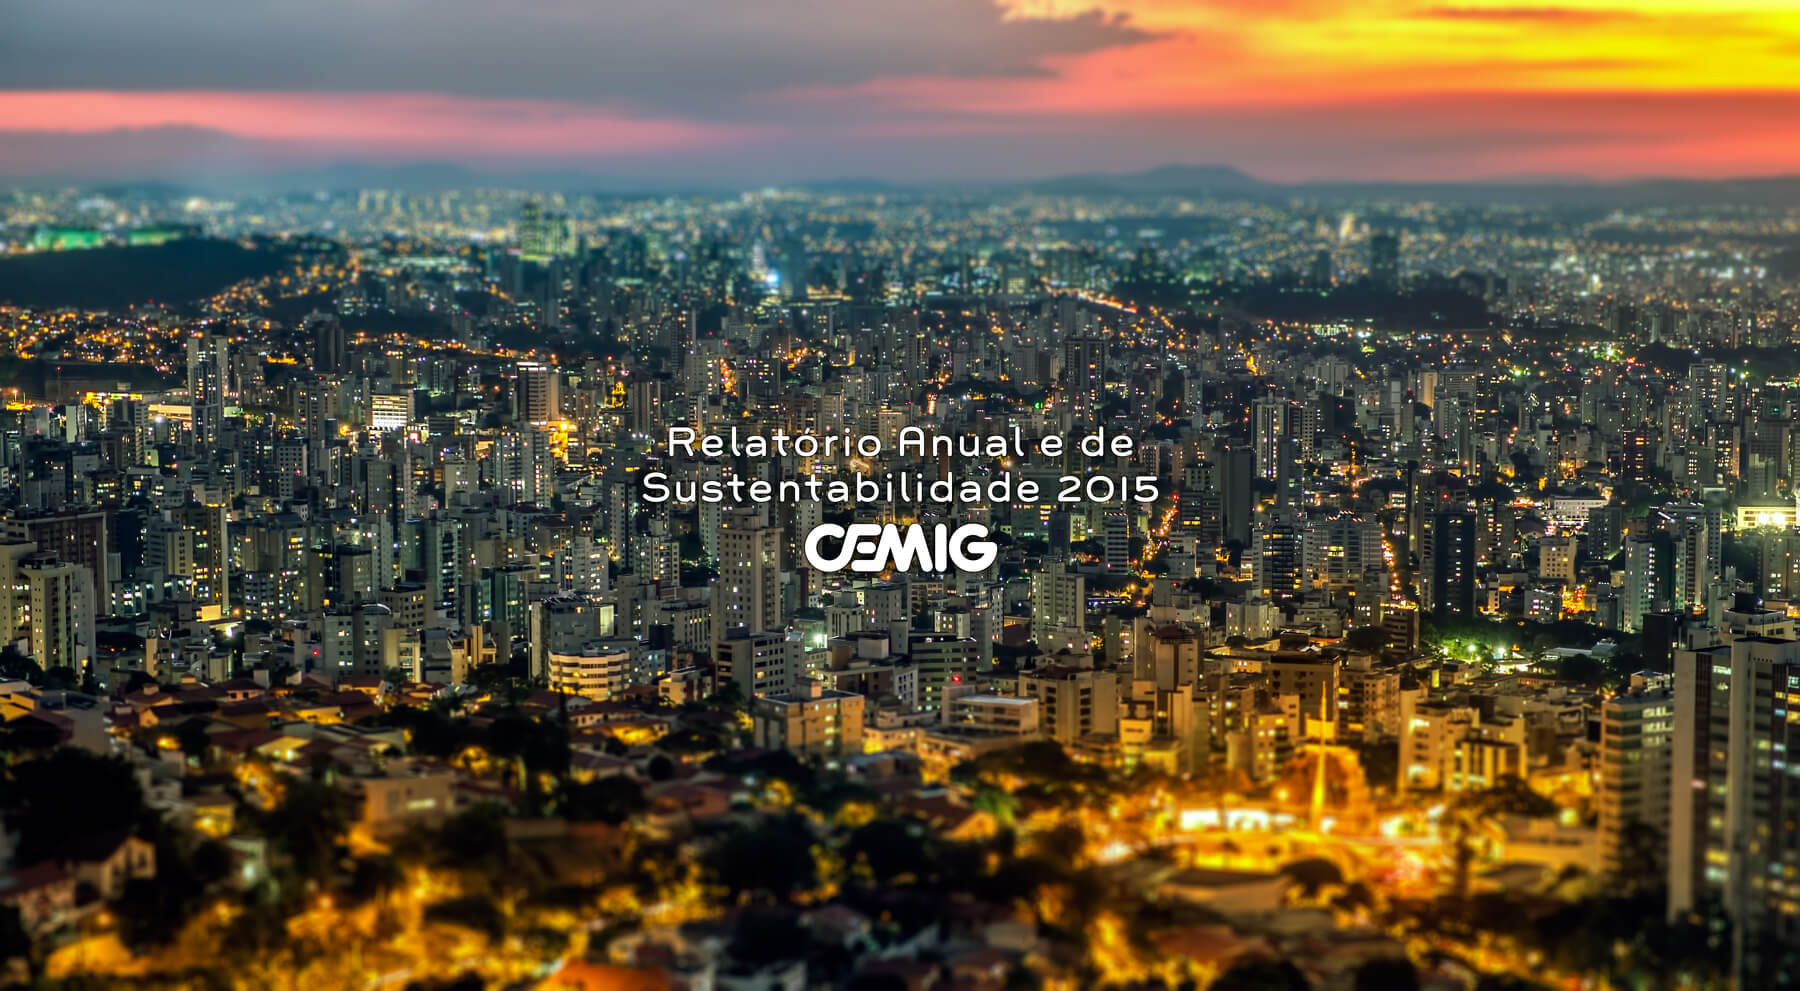
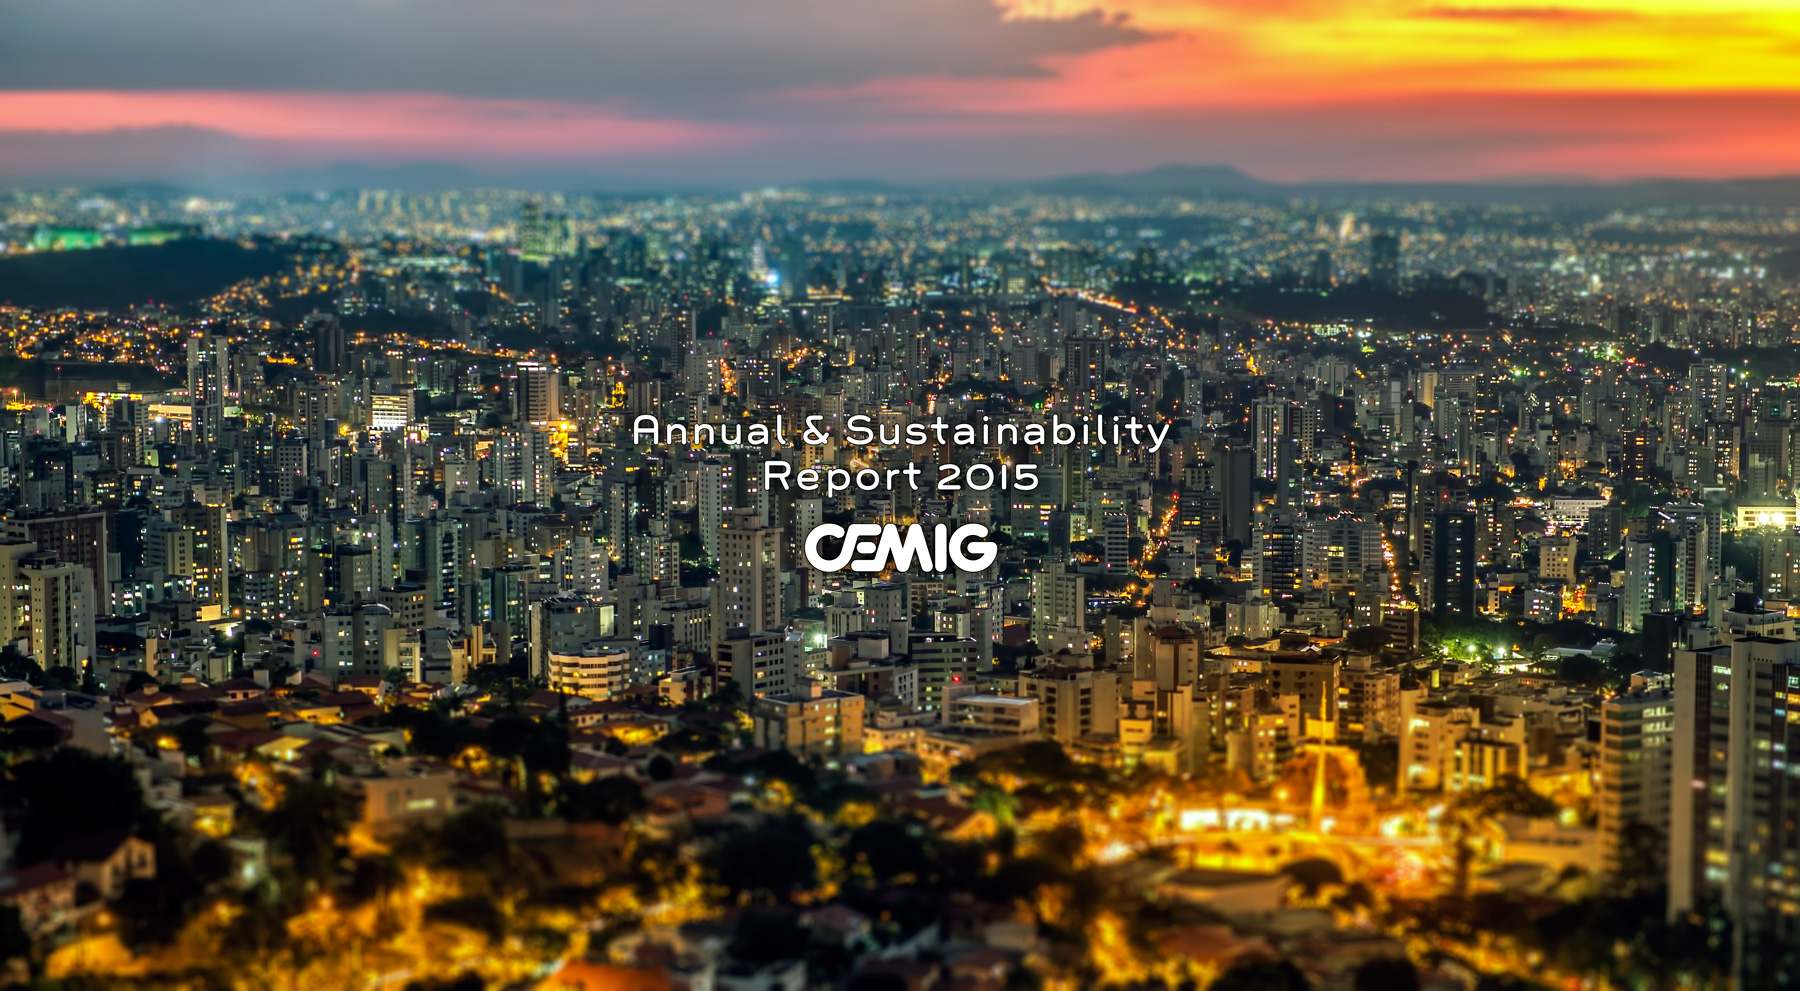
fix tradução

diff --git a/www/scripts_app.js b/www/scripts_app.js
@@ -2,7 +2,7 @@
 var deviceReady = false;
 var jqueryReady = false;
 
-var urlVideo = "http://relatorio2015.cemig.com.br/video/pt/";
+var urlVideo = "http://2015report.cemig.com.br/video/en/";
 
 console.log("Script App");
 
@@ -39,7 +39,7 @@ function checkReady(){
 
 	}
 
-	init();
+	//init();
 
 }
 

diff --git a/www/index.html b/www/index.html
@@ -59,7 +59,7 @@
 
 <script type="text/javascript">
 
-    idioma = "pt";
+    idioma = "en";
     impressao = false;
 
 </script>
